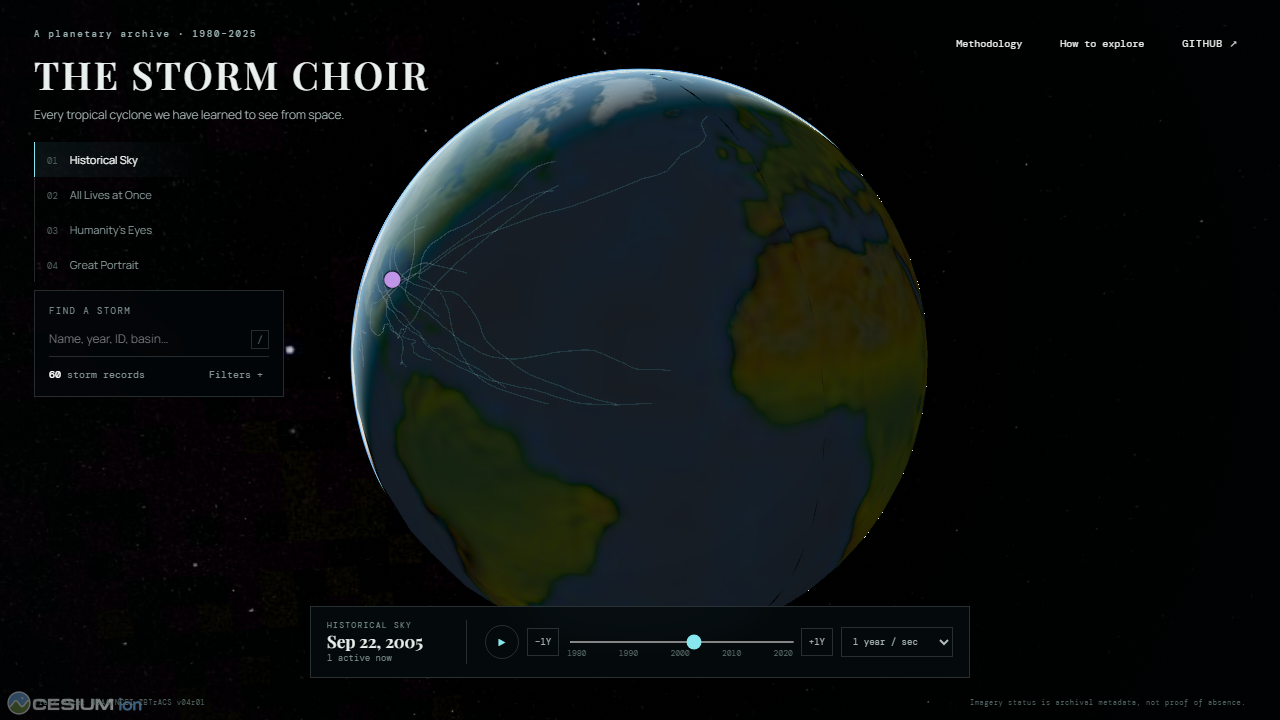
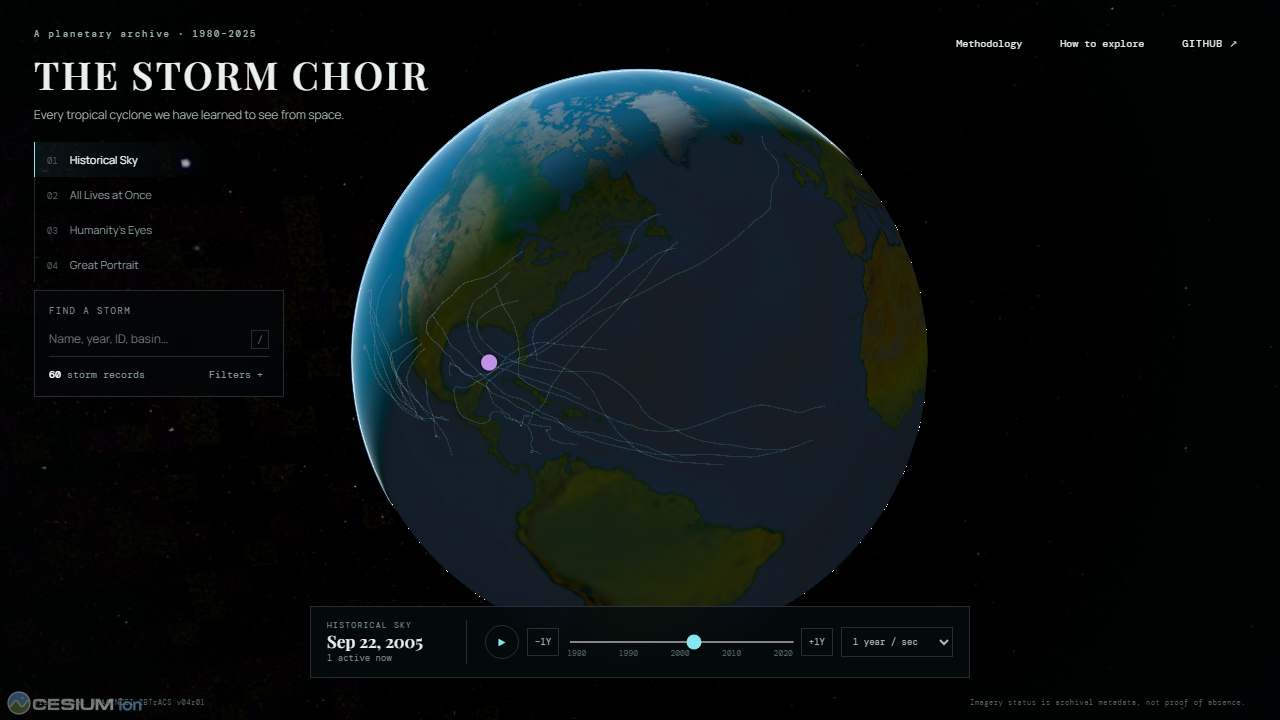
Fix globe flashing and add storm reconstructions

diff --git a/src/App.tsx b/src/App.tsx
@@ -43,6 +43,7 @@ function duration(s: StormSummary) {
 
 export default function App() {
   const store = useStore();
+  const setStore = useStore((state) => state.set);
   const [manifest, setManifest] = useState<Manifest | null>(null);
   const [tracks, setTracks] = useState<Map<string, TrackPoint[]>>(new Map());
   const [filtersOpen, setFiltersOpen] = useState(false);
@@ -109,12 +110,12 @@ export default function App() {
   const selected =
     manifest?.storms.find((s) => s.id === store.selectedId) || null;
   const select = useCallback(
-    (id: string) => store.set({ selectedId: id }),
-    [store],
+    (id: string) => setStore({ selectedId: id }),
+    [setStore],
   );
   const hover = useCallback(
-    (id: string | null) => store.set({ hoverId: id }),
-    [store],
+    (id: string | null) => setStore({ hoverId: id }),
+    [setStore],
   );
   useEffect(() => {
     const p = new URLSearchParams();
@@ -515,6 +516,9 @@ function Detail({
           </figcaption>
         </figure>
       )}
+      {!storm.imagery.thumbnail && imageryOn && (
+        <StormReconstruction storm={storm} opacity={imageryOpacity} />
+      )}
       <div className="intensity">
         <span>
           <b>{storm.maxWindKt ?? "—"}</b>
@@ -571,6 +575,95 @@ function Detail({
         <button onClick={() => onPrevNext(1)}>Next →</button>
       </div>
     </aside>
+  );
+}
+
+function StormReconstruction({
+  storm,
+  opacity,
+}: {
+  storm: StormSummary;
+  opacity: number;
+}) {
+  const canvasRef = useRef<HTMLCanvasElement>(null);
+  useEffect(() => {
+    const canvas = canvasRef.current;
+    if (!canvas) return;
+    const context = canvas.getContext("2d");
+    if (!context) return;
+    const width = 640;
+    const height = 360;
+    canvas.width = width;
+    canvas.height = height;
+    let seed = [...storm.id].reduce(
+      (value, character) =>
+        (Math.imul(value, 31) + character.charCodeAt(0)) >>> 0,
+      2166136261,
+    );
+    const random = () => {
+      seed ^= seed << 13;
+      seed ^= seed >>> 17;
+      seed ^= seed << 5;
+      return (seed >>> 0) / 4294967296;
+    };
+    const image = context.createImageData(width, height);
+    const pixels = image.data;
+    const centerX = width * (0.48 + (random() - 0.5) * 0.08);
+    const centerY = height * (0.5 + (random() - 0.5) * 0.1);
+    const strength = Math.min(1, (storm.maxWindKt ?? 45) / 165);
+    const rotation = random() * Math.PI * 2;
+    for (let y = 0; y < height; y += 1) {
+      for (let x = 0; x < width; x += 1) {
+        const dx = (x - centerX) / height;
+        const dy = (y - centerY) / height;
+        const radius = Math.sqrt(dx * dx + dy * dy);
+        const angle = Math.atan2(dy, dx) + rotation;
+        const spiral = Math.sin(angle * 4 - radius * (32 + strength * 12));
+        const outerBands = Math.max(0, spiral * 0.5 + 0.5 - radius * 0.42);
+        const core = Math.exp(-radius * radius * 34);
+        const eye = Math.exp(-radius * radius * 620);
+        const asymmetry = 0.78 + 0.22 * Math.sin(angle - radius * 8);
+        const grain = (random() - 0.5) * 34;
+        const cloud = Math.max(
+          0,
+          Math.min(
+            255,
+            22 + outerBands * 155 * asymmetry + core * 105 - eye * 205 + grain,
+          ),
+        );
+        const offset = (y * width + x) * 4;
+        pixels[offset] = cloud * 0.9;
+        pixels[offset + 1] = cloud * 0.98;
+        pixels[offset + 2] = cloud;
+        pixels[offset + 3] = 255;
+      }
+    }
+    context.putImageData(image, 0, 0);
+    const glow = context.createRadialGradient(
+      centerX,
+      centerY,
+      6,
+      centerX,
+      centerY,
+      height * 0.48,
+    );
+    glow.addColorStop(0, "rgba(220, 250, 252, .2)");
+    glow.addColorStop(0.55, "rgba(90, 194, 205, .08)");
+    glow.addColorStop(1, "rgba(0, 0, 0, .58)");
+    context.fillStyle = glow;
+    context.fillRect(0, 0, width, height);
+  }, [storm]);
+  return (
+    <figure className="satellite-frame reconstruction">
+      <canvas
+        ref={canvasRef}
+        style={{ opacity }}
+        aria-label={`Visual reconstruction of ${storm.name || storm.id} based on track and intensity; not satellite data`}
+      />
+      <figcaption>
+        VISUAL RECONSTRUCTION · TRACK + INTENSITY · NOT SATELLITE DATA
+      </figcaption>
+    </figure>
   );
 }
 

diff --git a/src/globe/StormGlobe.tsx b/src/globe/StormGlobe.tsx
@@ -59,9 +59,13 @@ export default function StormGlobe({
 }: Props) {
   const host = useRef<HTMLDivElement>(null);
   const viewerRef = useRef<Viewer | null>(null);
+  const linesRef = useRef<PolylineCollection | null>(null);
+  const pointsRef = useRef<PointPrimitiveCollection | null>(null);
+  const hoveredIdRef = useRef<string | null>(null);
   const interacted = useRef(false);
   useEffect(() => {
     if (!host.current || viewerRef.current) return;
+    let disposed = false;
     if (import.meta.env.VITE_CESIUM_ION_TOKEN)
       Ion.defaultAccessToken = import.meta.env.VITE_CESIUM_ION_TOKEN;
     const viewer = new Viewer(host.current, {
@@ -80,6 +84,10 @@ export default function StormGlobe({
       requestRenderMode: false,
     });
     viewerRef.current = viewer;
+    linesRef.current = viewer.scene.primitives.add(new PolylineCollection());
+    pointsRef.current = viewer.scene.primitives.add(
+      new PointPrimitiveCollection(),
+    );
     viewer.scene.globe.baseColor = Color.fromCssColorString("#071316");
     viewer.scene.backgroundColor = Color.fromCssColorString("#020406");
     if (viewer.scene.skyAtmosphere)
@@ -91,6 +99,7 @@ export default function StormGlobe({
     TileMapServiceImageryProvider.fromUrl(
       buildModuleUrl("Assets/Textures/NaturalEarthII"),
     ).then((provider) => {
+      if (disposed || viewer.isDestroyed()) return;
       const layer = new ImageryLayer(provider);
       layer.brightness = 0.38;
       layer.contrast = 1.35;
@@ -114,31 +123,34 @@ export default function StormGlobe({
     }, ScreenSpaceEventType.LEFT_CLICK);
     handler.setInputAction((movement: { endPosition: Cartesian2 }) => {
       const picked = viewer.scene.pick(movement.endPosition);
-      onHover(
-        defined(picked) && typeof picked.id === "string" ? picked.id : null,
-      );
+      const nextId =
+        defined(picked) && typeof picked.id === "string" ? picked.id : null;
+      if (nextId !== hoveredIdRef.current) {
+        hoveredIdRef.current = nextId;
+        onHover(nextId);
+      }
     }, ScreenSpaceEventType.MOUSE_MOVE);
     const rotate = viewer.clock.onTick.addEventListener(() => {
       if (!interacted.current && !reducedMotion)
         viewer.scene.camera.rotate(Cartesian3.UNIT_Z, -0.00018);
     });
     return () => {
+      disposed = true;
       rotate();
       handler.destroy();
       viewer.destroy();
       viewerRef.current = null;
+      linesRef.current = null;
+      pointsRef.current = null;
+      hoveredIdRef.current = null;
     };
   }, [onHover, onSelect, reducedMotion]);
 
   useEffect(() => {
     const viewer = viewerRef.current;
-    if (!viewer) return;
-    const old = viewer.scene.primitives.get(0);
-    while (viewer.scene.primitives.length)
-      viewer.scene.primitives.remove(viewer.scene.primitives.get(0));
-    void old;
-    const lines = viewer.scene.primitives.add(new PolylineCollection());
-    const points = viewer.scene.primitives.add(new PointPrimitiveCollection());
+    const lines = linesRef.current;
+    if (!viewer || !lines) return;
+    lines.removeAll();
     storms.forEach((s) => {
       const track = tracks.get(s.id);
       if (!track?.length) return;
@@ -157,6 +169,19 @@ export default function StormGlobe({
           id: s.id,
         }),
       );
+    });
+    viewer.scene.requestRender();
+  }, [storms, tracks, selectedId]);
+
+  useEffect(() => {
+    const viewer = viewerRef.current;
+    const points = pointsRef.current;
+    if (!viewer || !points) return;
+    points.removeAll();
+    storms.forEach((s) => {
+      const track = tracks.get(s.id);
+      if (!track?.length) return;
+      const selected = s.id === selectedId;
       let p: TrackPoint | null;
       if (mode === "lives") p = lifecyclePosition(track, lifecycle, alignPeak);
       else if (mode === "eyes" || mode === "portrait")

diff --git a/tests/e2e/smoke.spec.ts b/tests/e2e/smoke.spec.ts
@@ -1,5 +1,8 @@
 import { expect, test } from "@playwright/test";
 test("archive loads and opens a storm specimen", async ({ page }) => {
+  test.setTimeout(60_000);
+  const runtimeErrors: string[] = [];
+  page.on("pageerror", (error) => runtimeErrors.push(error.message));
   await page.goto("");
   await expect(
     page.getByRole("heading", { name: "THE STORM CHOIR" }),
@@ -7,8 +10,25 @@ test("archive loads and opens a storm specimen", async ({ page }) => {
   await expect(page.getByTestId("globe")).toBeVisible();
   await page.getByRole("button", { name: "Enter the archive" }).click();
   await expect(page.getByLabel("Timeline controls")).toBeVisible();
+  const globe = page.getByTestId("globe");
+  const bounds = await globe.boundingBox();
+  expect(bounds).not.toBeNull();
+  if (bounds) {
+    await page.mouse.move(bounds.x + bounds.width * 0.55, bounds.y + 260);
+    await page.mouse.down();
+    await page.mouse.move(bounds.x + bounds.width * 0.66, bounds.y + 300, {
+      steps: 2,
+    });
+    await page.mouse.up();
+  }
+  await expect(globe.locator("canvas")).toBeVisible();
+  await expect(
+    page.getByText("An error occurred while rendering."),
+  ).toHaveCount(0);
   await page.screenshot({ path: "docs/screenshot.png" });
   await page.getByRole("button", { name: /Great Portrait/ }).click();
   await page.locator(".portrait-tile").first().click();
   await expect(page.getByText(/SPECIMEN/)).toBeVisible();
+  await expect(page.getByText(/VISUAL RECONSTRUCTION/)).toBeVisible();
+  expect(runtimeErrors).toEqual([]);
 });

diff --git a/src/styles/app.css b/src/styles/app.css
@@ -343,6 +343,17 @@ a {
   width: 100%;
   display: block;
 }
+.satellite-frame canvas {
+  width: 100%;
+  display: block;
+  aspect-ratio: 16 / 9;
+}
+.satellite-frame.reconstruction {
+  border-color: rgba(197, 168, 255, 0.28);
+}
+.satellite-frame.reconstruction figcaption {
+  color: #bca9d8;
+}
 .satellite-frame figcaption {
   padding: 7px 9px;
   font: 7px DM Mono;